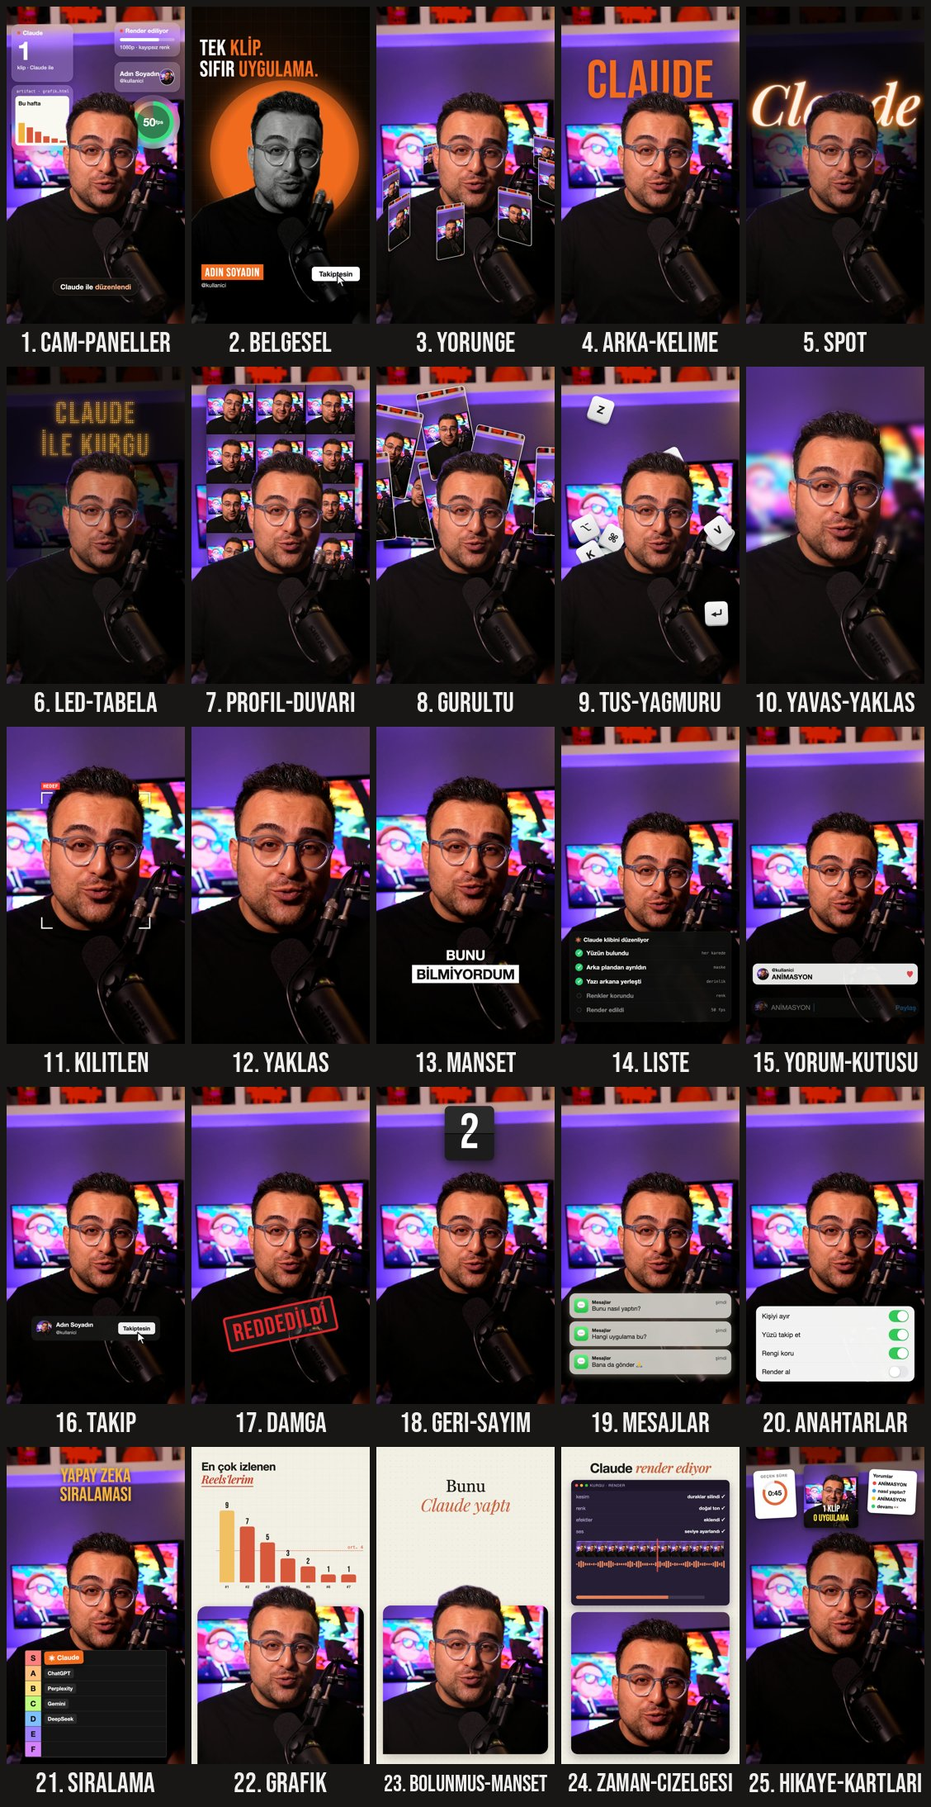
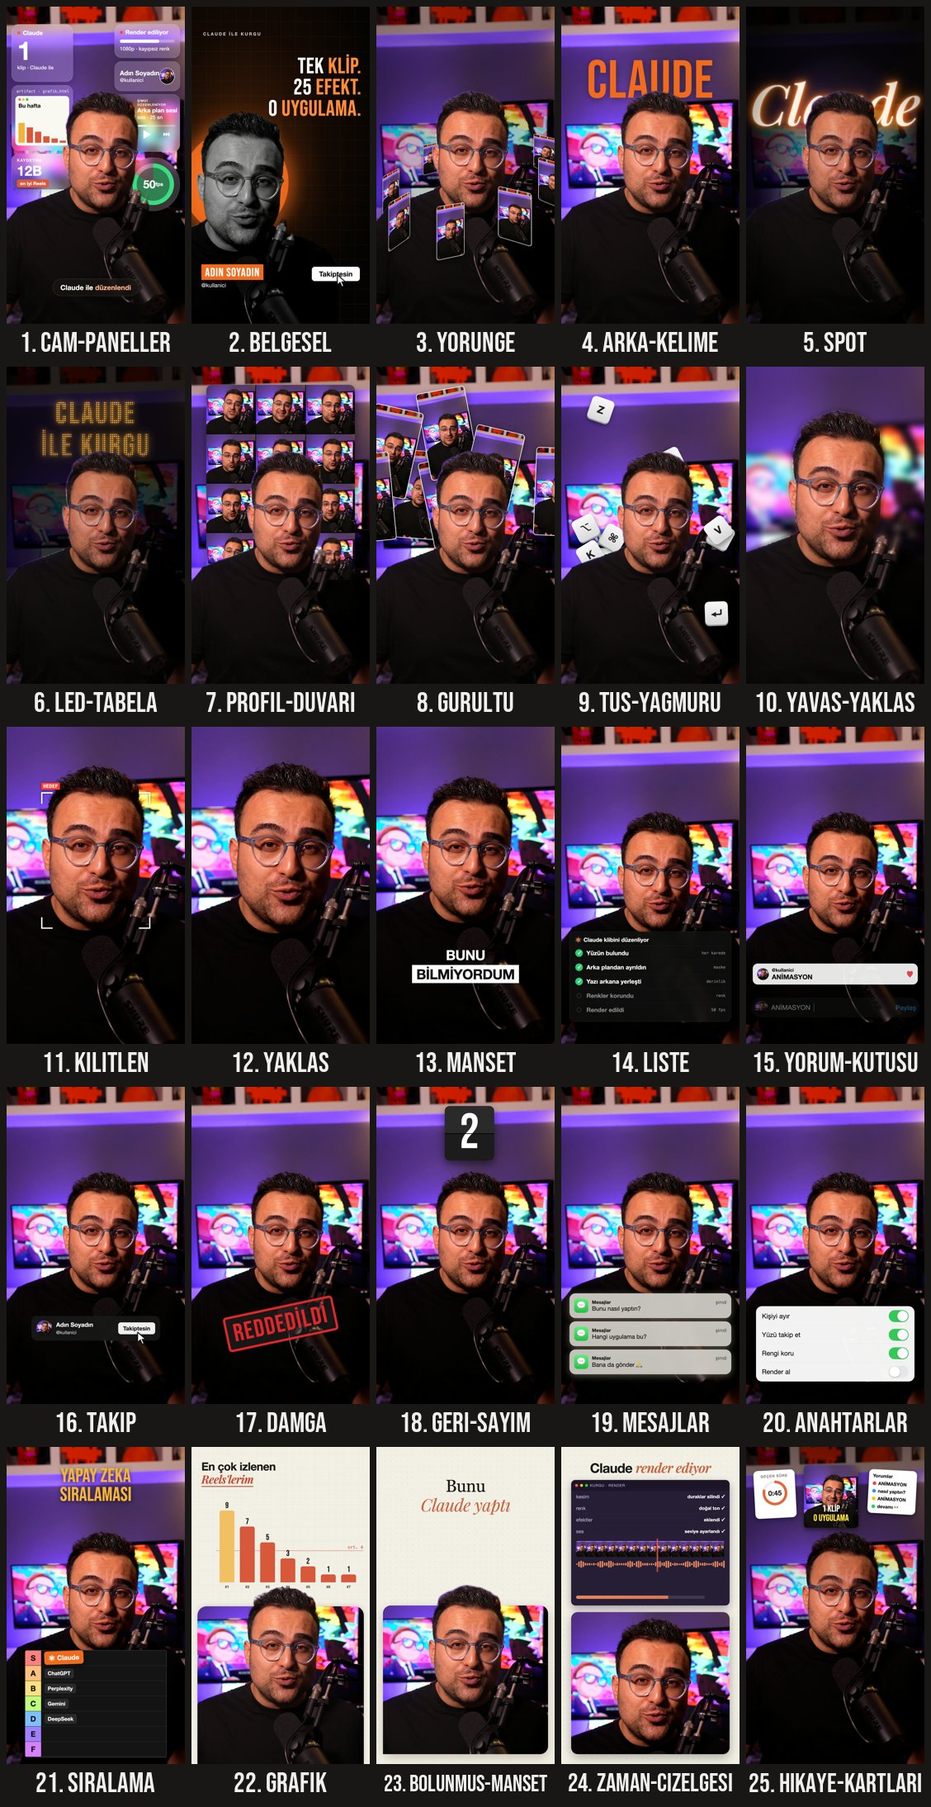
Videodaki efektler: cam-paneller, belgesel, yörünge, spot, grafik; kaliteli maske varsayılan

diff --git a/scripts/efekt.py b/scripts/efekt.py
@@ -6,7 +6,7 @@ Plan:        python efekt.py --plan plan.json video.mp4 cikti.mp4
 Kontrol:     python efekt.py --plan plan.json video.mp4 kontrol.jpg --kare 4.5,9.2
 Liste:       python efekt.py --liste
 
-Yüz YuNet ile takip edilir; kişi arka plandan ayrılır (hızlı: U2Net insan, --kaliteli: BiRefNet).
+Yüz YuNet ile takip edilir; kişi arka plandan ayrılır (varsayılan: BiRefNet, saç teli net; --hizli: U2Net).
 Animasyonlar HyperFrames + GSAP ile çizilir; çıktı kaynağın rengini birebir korur (bt709) ve
 orijinal sesi aynen taşır.
 """
@@ -128,7 +128,12 @@ def fx_cam(c, e, P):
 .gs{font-size:30px;font-weight:600;display:flex;align-items:center;gap:12px}.gs2{font-size:26px;font-weight:500;opacity:.85;line-height:1.3}
 .gdot{width:16px;height:16px;border-radius:50%;background:#e8644a;display:inline-block}.gbig{font-size:130px;font-weight:800;line-height:1;margin:4px 0 6px}
 .gmono{font:20px Menlo,monospace;opacity:.8;margin:0 0 12px 6px;white-space:nowrap}.gwin{background:#fbf8f3;border-radius:18px;padding:12px 16px;height:250px;position:relative;color:#1d1d1b}
-.gwt{font-size:28px;font-weight:800;margin-top:8px}.gch{position:absolute;left:16px;right:16px;bottom:14px;height:100px;display:flex;align-items:flex-end;gap:10px}.gch i{flex:1}
+.gwt{font-size:28px;font-weight:800;margin-top:8px}.gwd{display:flex;gap:7px}.gwd b{width:12px;height:12px;border-radius:50%}.gwv{font:400 54px Bebas;color:#C9452E;line-height:1}
+.glab{font-size:20px;font-weight:700;letter-spacing:2px;color:#fff;opacity:.85}.gmid{font-size:70px;font-weight:800;line-height:1;margin:4px 0 10px}
+.gred{display:inline-block;background:#E0563B;border-radius:12px;padding:6px 16px;font-size:24px;font-weight:600}
+.gico{width:76px;height:76px;border-radius:18px;background:#E0563B;display:flex;align-items:center;justify-content:center;flex:none}
+.gpb{height:8px;border-radius:4px;background:rgba(255,255,255,.3);margin:22px 0 10px;overflow:hidden}.gpb div{height:100%;width:60%;background:#fff}
+.gctl{display:flex;justify-content:center;align-items:center;gap:56px;font-size:36px}.gch{position:absolute;left:16px;right:16px;bottom:14px;height:100px;display:flex;align-items:flex-end;gap:10px}.gch i{flex:1}
 .gbar{height:16px;border-radius:8px;background:rgba(255,255,255,.3);margin:18px 0 14px;overflow:hidden}.gbf{height:100%;width:71%;background:#fff;border-radius:8px}
 .gname{font-size:32px;font-weight:800;white-space:nowrap}.gav{width:84px;height:84px;border-radius:50%;border:3px solid rgba(255,255,255,.8);object-fit:cover}
 .gring{width:210px;height:210px;border-radius:50%;background:conic-gradient(#3ddc84 300deg,rgba(255,255,255,.3) 0);display:flex;align-items:center;justify-content:center}
@@ -136,46 +141,55 @@ def fx_cam(c, e, P):
 .gpill{position:absolute;left:50%;margin-left:-260px;top:1660px;width:520px;height:104px;border-radius:52px;display:flex;align-items:center;justify-content:center;font-size:42px;font-weight:600;color:#fff;background:rgba(30,26,22,.45);backdrop-filter:blur(20px);-webkit-backdrop-filter:blur(20px);border:1.5px solid rgba(255,255,255,.35)}""")
     u = ust / 1.2
     h = f'''<div id="{P}g0" class="gls" style="left:25px;top:{u:.0f}px;width:310px;height:290px;padding:24px 28px"><div class="gs"><b class="gdot"></b>Claude</div><div class="gbig">{esc(buyuk)}</div><div class="gs2">{esc(etiket)}</div></div>
-<div id="{P}g1" class="gls" style="left:25px;top:{u + 311:.0f}px;width:310px;height:330px;padding:18px"><div class="gmono">artifact · grafik.html</div><div class="gwin"><div class="gwt">{esc(e.get("grafik", "Bu hafta"))}</div><div class="gch">{bars}</div></div></div>
-<div id="{P}g2" class="gls" style="left:545px;top:{u:.0f}px;width:330px;height:170px;padding:22px 26px"><div class="gs"><b class="gdot" style="background:#ff4b3e"></b>Render ediliyor</div><div class="gbar"><div id="{P}gb" class="gbf"></div></div><div class="gs2">1080p · kayıpsız renk</div></div>
-<div id="{P}g3" class="gls" style="left:545px;top:{u + 191:.0f}px;width:330px;height:150px;padding:22px 26px;display:flex;align-items:center"><div style="flex:1"><div class="gname">{esc(ad)}</div><div class="gs2">{esc(kul)}</div></div><img src="{c.kart(0)}" class="gav"></div>
-<div id="{P}g4" class="gls" style="left:605px;top:{u + 362:.0f}px;width:270px;height:270px;border-radius:50%;display:flex;align-items:center;justify-content:center"><div class="gring"><div>{esc(e.get("halka", "50"))}<br><span>{esc(e.get("halka_etiket", "fps"))}</span></div></div></div>'''
+<div id="{P}g1" class="gls" style="left:25px;top:{u + 311:.0f}px;width:310px;height:330px;padding:18px"><div class="gmono">artifact · grafik.html</div><div class="gwin"><div class="gwd"><b style="background:#ff5f57"></b><b style="background:#febc2e"></b><b style="background:#28c840"></b></div><div class="gwt">{esc(e.get("grafik", "Bu hafta"))}</div><div class="gwv">{esc(e.get("grafik_deger", ""))}</div><div class="gch">{bars}</div></div></div>
+<div id="{P}g2" class="gls" style="left:25px;top:{u + 661:.0f}px;width:310px;height:180px;padding:20px 26px"><div class="glab">{esc(e.get("kutu_etiket", "KAYDETME")).upper()}</div><div class="gmid">{esc(e.get("kutu", "12B"))}</div><div class="gred">{esc(e.get("kutu_alt", "en iyi Reels"))}</div></div>
+<div id="{P}g3" class="gls" style="left:545px;top:{u:.0f}px;width:330px;height:170px;padding:22px 26px"><div class="gs"><b class="gdot" style="background:#ff4b3e"></b>Render ediliyor</div><div class="gbar"><div id="{P}gb" class="gbf"></div></div><div class="gs2">1080p · kayıpsız renk</div></div>
+<div id="{P}g4" class="gls" style="left:545px;top:{u + 191:.0f}px;width:330px;height:150px;padding:22px 26px;display:flex;align-items:center"><div style="flex:1"><div class="gname">{esc(ad)}</div><div class="gs2">{esc(kul)}</div></div><img src="{c.kart(0)}" class="gav"></div>
+<div id="{P}g5" class="gls" style="left:545px;top:{u + 361:.0f}px;width:330px;height:290px;padding:22px"><div style="display:flex;gap:16px;align-items:center"><div class="gico">{spark(54, "#fff")}</div><div><div class="glab" style="font-size:16px;letter-spacing:1.5px">ŞİMDİ DÜZENLENİYOR</div><div class="gname" style="font-size:30px">{esc(e.get("calan", "Arka plan sesi"))}</div><div class="gs2">{esc(e.get("calan_alt", "ses · 25 sn"))}</div></div></div><div class="gpb"><div id="{P}gp"></div></div><div class="gctl"><span>⏮</span><span style="font-size:52px">▶</span><span>⏭</span></div></div>
+<div id="{P}g6" class="gls" style="left:605px;top:{u + 672:.0f}px;width:270px;height:270px;border-radius:50%;display:flex;align-items:center;justify-content:center"><div class="gring"><div>{esc(e.get("halka", "50"))}<br><span>{esc(e.get("halka_etiket", "fps"))}</span></div></div></div>'''
     h += c.kesik(a, b)
-    h += f'<div id="{P}g5" class="gpill">Claude ile <b style="color:#FFB08A;margin-left:12px">düzenlendi</b></div>'
-    for j in range(6):
+    h += f'<div id="{P}g7" class="gpill">Claude ile <b style="color:#FFB08A;margin-left:12px">düzenlendi</b></div>'
+    for j in range(8):
         giris(c, f"#{P}g{j}", a, j, 0.07); c.yuzen(f"#{P}g{j}", a + 0.5 + j * 0.05, 8 + (j % 3) * 4, max(0.4, (b - a - 0.6) / 2))
     c.T(f"#{P}gb", "{width:'15%'}", "{width:'92%'}", a + 0.1, b - a - 0.2, "power1.inOut")
+    c.T(f"#{P}gp", "{width:'10%'}", "{width:'70%'}", a + 0.1, b - a - 0.2, "none")
     return h
 
 
-@efekt("belgesel", "Siyah-beyaz sen, başının arkasında turuncu daire, satır satır başlık, isim bandı, Takip et → Takiptesin", kesik=True, takma=("red-collage", "documentary"))
+@efekt("belgesel", "Siyah-beyaz sen köşede, başının arkasında turuncu daire, sağ üstte satır satır başlık, isim bandı, Takip et → Takiptesin", kesik=True, takma=("red-collage", "documentary"))
 def fx_belgesel(c, e, P):
     a, b = e["bas"], e["bit"]; fx, fy, fw = c.yuz_ort(a, b)
-    satir = parca(e.get("metin", "TEK KLİP.|SIFIR UYGULAMA."))
-    renk = e.get("renk", TURUNCU); r = 1.15 * fw
-    sag = fx < W / 2
-    g = "filter:grayscale(1) contrast(1.12) brightness(.9);"
+    satir = parca(e.get("metin", "TEK KLİP.|25 EFEKT.|0 UYGULAMA."))
+    renk = e.get("renk", TURUNCU); sk = 1.15
+    # kişiyi sol alta kaydır: yüz (290, 1118) civarına gelir
+    tx = 290 - (540 + (fx - 540) * sk); ty = 1118 - (960 + (fy - 960) * sk)
+    nx, ny, nw = 290, 1118, fw * sk; r = 0.71 * nw
+    g = f"filter:grayscale(1) contrast(1.12) brightness(.9);transform:translate({tx:.0f}px,{ty:.0f}px) scale({sk});transform-origin:540px 960px;"
     ts = "".join(f'<div id="{P}l{i}">{esc(" ".join(s.split()[:-1]))} <em>{esc(s.split()[-1])}</em></div>' if len(s.split()) > 1 else f'<div id="{P}l{i}"><em>{esc(s)}</em></div>' for i, s in enumerate(satir))
-    c.css("belgesel", f""".bbg{{position:absolute;inset:0;background:radial-gradient(ellipse 80% 60% at 40% 40%,#3a1a08 0%,#140904 55%,#050302 100%)}}
-.bbg:after{{content:"";position:absolute;inset:0;background-image:linear-gradient(rgba(255,140,60,.07) 2px,transparent 2px),linear-gradient(90deg,rgba(255,140,60,.07) 2px,transparent 2px);background-size:90px 90px}}
-.btl{{position:absolute;color:#fff;font:400 135px Bebas;line-height:.95;letter-spacing:2px}}.btl em{{font-style:normal}}
-.bln{{display:inline-block;color:#fff;font:400 72px Bebas;padding:8px 22px 0;letter-spacing:3px}}.blh{{color:#fff;font-size:34px;margin-top:12px;opacity:.85}}
-.bfol{{position:absolute;color:#fff;font-size:42px;font-weight:700;border-radius:18px;padding:18px 44px}}""")
-    yer = "right:50px;text-align:right" if sag else "left:50px;text-align:left"
+    c.css("belgesel", """.bbg{position:absolute;inset:0;background:radial-gradient(ellipse 80% 60% at 30% 40%,#3a1a08 0%,#140904 55%,#050302 100%)}
+.bbg:after{content:"";position:absolute;inset:0;background-image:linear-gradient(rgba(255,140,60,.07) 2px,transparent 2px),linear-gradient(90deg,rgba(255,140,60,.07) 2px,transparent 2px);background-size:90px 90px}
+.btop{position:absolute;left:70px;top:150px;color:rgba(255,255,255,.75);font-size:26px;letter-spacing:6px;font-weight:600}
+.btl{position:absolute;right:50px;top:300px;text-align:right;color:#fff;font:400 135px Bebas;line-height:.95;letter-spacing:2px}.btl em{font-style:normal}
+.bln{display:inline-block;color:#fff;font:400 72px Bebas;padding:8px 22px 0;letter-spacing:3px}.blh{color:#fff;font-size:34px;margin-top:12px;opacity:.85}
+.bfol{position:absolute;color:#fff;font-size:42px;font-weight:700;border-radius:18px;padding:18px 44px}""")
     h = f'''<div id="{P}bg" class="bbg"></div>
-<div id="{P}dk" style="position:absolute;left:{fx - r:.0f}px;top:{fy - r - 0.1 * fw:.0f}px;width:{2 * r:.0f}px;height:{2 * r:.0f}px;border-radius:50%;background:radial-gradient(circle,{renk} 0%,{renk} 60%,#0000 100%);box-shadow:0 0 90px 30px {renk}88"></div>
-<div class="btl" style="{yer};top:{max(120, fy - 1.9 * fw):.0f}px">{ts.replace("<em>", f'<em style="color:{renk}">')}</div>'''
+<div id="{P}dk" style="position:absolute;left:{nx - 0.05 * nw - r:.0f}px;top:{ny - 0.09 * nw - r:.0f}px;width:{2 * r:.0f}px;height:{2 * r:.0f}px;border-radius:50%;background:radial-gradient(circle,#FF8A3D 0%,{renk} 60%,#d4560f 100%);box-shadow:0 0 90px 30px {renk}8c,0 0 220px 80px {renk}40"></div>
+<div id="{P}ut" class="btop">{esc(e.get("ust", "CLAUDE İLE KURGU")).upper()}</div>
+<div class="btl">{ts.replace("<em>", '<em style="color:#FF8A3D">')}</div>'''
     h += c.kesik(a, b, g)
-    h += f'''<div style="position:absolute;left:60px;top:1560px"><div class="bln" style="background:{renk}">{esc(e.get("ad", "ADIN SOYADIN").upper())}</div><div class="blh">{esc(e.get("kullanici", "@kullanici"))}</div></div>
+    h += f'''<div id="{P}bt" style="position:absolute;left:60px;top:1560px"><div class="bln" style="background:{renk}">{esc(e.get("ad", "ADIN SOYADIN").upper())}</div><div class="blh">{esc(e.get("kullanici", "@kullanici"))}</div></div>
 <div id="{P}fo" class="bfol" style="right:60px;top:1575px;background:{renk}"><span id="{P}f1">Takip et</span><span id="{P}f2" style="display:none">Takiptesin</span></div>
 <div id="{P}cu" style="position:absolute;left:880px;top:1620px;filter:drop-shadow(0 4px 8px rgba(0,0,0,.5))">{IMLEC}</div>'''
     c.T(f"#{P}bg", "{opacity:0}", "{opacity:1}", a, 0.2, "none")
-    c.T(f"#{P}dk", "{scale:0.5,opacity:0}", "{scale:1,opacity:1}", a + 0.05, 0.5)
-    for i in range(len(satir)): c.T(f"#{P}l{i}", "{opacity:0,x:60}", "{opacity:1,x:0}", a + 0.25 + i * 0.17, 0.2)
-    t = a + min(b - a - 0.4, 1.0)
+    c.T(f"#{P}dk", "{scale:0.6,opacity:0}", "{scale:1,opacity:1}", a + 0.05, 0.6)
+    c.yuzen(f"#{P}dk", a + 0.7, 12, max(0.4, (b - a - 0.8) / 2))
+    c.T(f"#{P}ut", "{opacity:0,y:-20}", "{opacity:1,y:0}", a + 0.6, 0.3)
+    c.T(f"#{P}bt", "{x:-500}", "{x:0}", a + 0.6, 0.4)
+    for i in range(len(satir)): c.T(f"#{P}l{i}", "{opacity:0,x:60}", "{opacity:1,x:0}", a + 0.8 + i * 0.17, 0.18)
+    t = a + min(b - a - 0.3, 0.8 + len(satir) * 0.17 + 0.35)
     c.T(f"#{P}cu", "{x:260,y:300,opacity:0}", "{x:0,y:0,opacity:1}", t - 0.35, 0.3)
     c.S(f"#{P}f1", '{display:"none"}', t); c.S(f"#{P}f2", '{display:"inline"}', t)
-    c.S(f"#{P}fo", '{backgroundColor:"#fff",color:"#111"}', t)
+    c.S(f"#{P}fo", '{backgroundColor:"#fff",color:"#111",scale:0.94}', t); c.T(f"#{P}fo", "{scale:0.94}", "{scale:1}", t + 0.04, 0.15)
     return h
 
 
@@ -206,7 +220,8 @@ def fx_yorunge(c, e, P):
                 else: c.J.append(f'tl.to("#{P}o{i}{k}", {{{v},duration:{adim},ease:"none"}}, {c.fr(t - adim):.4f});')
             if f != st:
                 c.S(f"#{P}o{i}f", f"{{opacity:{1 if f else 0}}}", t); c.S(f"#{P}o{i}b", f"{{opacity:{0 if f else 1}}}", t); st = f
-    return arka + c.kesik(a, b) + on
+    c.T(f"#{P}dk", "{opacity:0}", "{opacity:1}", a, 0.25, "none")
+    return f'<div id="{P}dk" style="position:absolute;inset:0;background:rgba(0,0,0,.25)"></div>' + arka + c.kesik(a, b) + on
 
 
 @efekt("arka-kelime", "Dev bir kelime arkana düşer", kesik=True, takma=("backdrop-word", "backdrop", "kelime"))
@@ -230,6 +245,8 @@ def fx_spot(c, e, P):
     h = f'''<div id="{P}d" style="position:absolute;inset:0;background:radial-gradient(ellipse 60% 45% at {fx / W * 100:.0f}% {fy / H * 100:.0f}%,rgba(0,0,0,.25),rgba(0,0,0,.88) 80%)"></div>
 <div id="{P}n" style="position:absolute;left:-40px;right:-40px;top:{fy - 1.05 * fw - boy * 0.5:.0f}px;text-align:center;font:italic 500 {boy}px Playfair;color:#fff1e3;text-shadow:0 0 8px #fff,0 0 22px {renk},0 0 48px {renk},0 0 90px {renk}">{esc(s)}</div>'''
     h += c.kesik(a, b, "filter:brightness(.9);")
+    h += f'<div id="{P}v" style="position:absolute;inset:0;background:radial-gradient(ellipse 70% 55% at {fx / W * 100:.0f}% {fy / H * 100:.0f}%,transparent 55%,rgba(0,0,0,.6))"></div>'
+    c.T(f"#{P}v", "{opacity:0}", "{opacity:1}", a, 0.25, "none")
     c.T(f"#{P}d", "{opacity:0}", "{opacity:1}", a, 0.25, "none")
     c.S(f"#{P}n", "{opacity:0}", a)
     for t, o in ((0.25, 1), (0.33, 0.2), (0.41, 1), (0.49, 0.4), (0.55, 1)): c.S(f"#{P}n", f"{{opacity:{o}}}", a + t)
@@ -507,12 +524,13 @@ def fx_grafik(c, e, P):
     ort = sum(deg) / n
     vst, kst = pencere_yuz(c, e, 36, 965, W - 72, H - 965)
     h = f'''<div style="position:absolute;inset:0;background:{KREM};background-image:linear-gradient(rgba(150,140,120,.13) 1.5px,transparent 1.5px),linear-gradient(90deg,rgba(150,140,120,.13) 1.5px,transparent 1.5px);background-size:44px 44px">
-<div style="position:absolute;left:60px;top:80px;font-weight:800;font-size:68px;color:{MUREKKEP};letter-spacing:-1.5px;line-height:1.12">{esc(bas[0])}<br><span style="border-bottom:5px solid #C9452E"><em style="font-family:Playfair;font-weight:600;color:#C9452E">{esc(bas[1])}</em></span></div>
+<div id="{P}tl" style="position:absolute;left:60px;top:80px;font-weight:800;font-size:68px;color:{MUREKKEP};letter-spacing:-1.5px;line-height:1.12">{esc(bas[0])}<br><span style="border-bottom:5px solid #C9452E"><em style="font-family:Playfair;font-weight:600;color:#C9452E">{esc(bas[1])}</em></span></div>
 <div id="{P}av" style="position:absolute;left:150px;right:40px;top:{Y0 - ort / mx * HH:.0f}px;border-top:3px dashed #D9583D;transform-origin:0 50%"><span style="position:absolute;right:0;top:-38px;font:26px Menlo,monospace;color:#D9583D">ort. {esc(e.get("ortalama", f"{ort:.3g}".replace(".", ",")))}</span></div>{bars}
 <div id="{P}w" style="position:absolute;left:36px;right:36px;top:965px;bottom:0;border-radius:56px 56px 0 0;overflow:hidden;box-shadow:0 -6px 30px rgba(0,0,0,.12)">{c.video(a, b, vst)}</div>
 <div id="{P}kk" style="position:absolute;inset:0">{c.kesik(a, b, kst)}</div></div>'''
     for j in range(n): c.T(f"#{P}b{j}", "{scaleY:0}", "{scaleY:1}", a + 0.25 + j * 0.08, 0.45)
     c.T(f"#{P}av", "{scaleX:0}", "{scaleX:1}", a + 0.7, 0.4, "power2.out")
+    c.T(f"#{P}tl", "{y:-30,opacity:0}", "{y:0,opacity:1}", a + 0.05, 0.35)
     c.T(f"#{P}w", "{y:300}", "{y:0}", a, 0.45); c.T(f"#{P}kk", "{y:300}", "{y:0}", a, 0.45)
     return h
 
@@ -595,6 +613,10 @@ def yuz_izi(klip, dur, fps, cache):
     json.dump(out, open(cache + ".tmp", "w")); os.replace(cache + ".tmp", cache); return out
 
 
+def model_var(ad):
+    return any(os.path.exists(os.path.join(d, ad)) for d in (os.path.join(KOK, "models"), os.path.expanduser("~/.u2net")))
+
+
 def maske_motoru(kaliteli):
     import onnxruntime as ort
     adlar = ["birefnet-portrait.onnx"] if kaliteli else ["u2net_human_seg.onnx"]
@@ -612,7 +634,8 @@ def maske_motoru(kaliteli):
     sys.exit("Maske modeli yok. Önce: bash scripts/kurulum.sh" + (" (kaliteli mod için BiRefNet gerekir)" if kaliteli else ""))
 
 
-def kesikleri_yap(c, is_kl, kaliteli, fps):
+def kesikleri_yap(c, is_kl, kaliteli, fps, kareler=None):
+    """kareler verilirse (kontrol modu) sadece o anlara maske çıkarılır, diğer kareler en yakınınkini kullanır."""
     mas = None; mk = os.path.join(is_kl, "work", "mk" + ("_k" if kaliteli else "_h")); os.makedirs(mk, exist_ok=True)
     for i, (a, b) in enumerate(c.kesikler):
         n = int(math.ceil((b - a + 0.05) * fps)) + 1; ilk = int(round(a * fps))
@@ -620,8 +643,16 @@ def kesikleri_yap(c, is_kl, kaliteli, fps):
         sh("ffmpeg", "-v", "error", "-y", "-ss", f"{a:.4f}", "-i", os.path.join(is_kl, "assets", "klip.mov"), "-frames:v", str(n), "-start_number", "0", os.path.join(rgb, "%05d.png"))
         kk = os.path.join(is_kl, "work", f"kesik{i}"); shutil.rmtree(kk, ignore_errors=True); os.makedirs(kk)
         dosyalar = sorted(glob.glob(os.path.join(rgb, "*.png")))
+        hedef = None
+        if kareler:
+            ic = [int(round(t * fps)) - ilk for t in kareler if a - 0.1 <= t <= b + 0.1]
+            hedef = [min(max(x, 0), len(dosyalar) - 1) for x in ic] or [len(dosyalar) // 2]
         for j, f in enumerate(dosyalar):
-            m = os.path.join(mk, f"{ilk + j:06d}.png")
+            jj = min(hedef, key=lambda x: abs(x - j)) if hedef else j
+            m = os.path.join(mk, f"{ilk + jj:06d}.png")
+            if jj != j:
+                if not os.path.exists(m): mas = mas or maske_motoru(kaliteli); mas(Image.open(dosyalar[jj]).convert("RGB")).save(m)
+                im = Image.open(f).convert("RGB"); im.putalpha(Image.open(m).convert("L")); im.save(os.path.join(kk, f"{j:05d}.png")); continue
             im = Image.open(f).convert("RGB")
             if not os.path.exists(m):
                 mas = mas or maske_motoru(kaliteli); mas(im).save(m)
@@ -646,7 +677,7 @@ def main():
     p = argparse.ArgumentParser(description="25 kurgu efekti")
     p.add_argument("args", nargs="*"); p.add_argument("--plan"); p.add_argument("--bas", type=float); p.add_argument("--bit", type=float)
     p.add_argument("--opt", action="append", default=[]); p.add_argument("--kare", help="kontrol kareleri: 4.5,9.2")
-    p.add_argument("--kaliteli", action="store_true", help="BiRefNet maske (yavaş, saç teli net)"); p.add_argument("--kartlar", help="Reels kapakları klasörü")
+    p.add_argument("--hizli", action="store_true", help="U2Net maske (hızlı ama saç kenarı kaba)"); p.add_argument("--kaliteli", action="store_true", help=argparse.SUPPRESS); p.add_argument("--kartlar", help="Reels kapakları klasörü")
     p.add_argument("--liste", action="store_true")
     a = p.parse_args()
     if a.liste:
@@ -710,7 +741,9 @@ tl.set({{}}, {{}}, {dur - 0.01:.3f});
 window.__timelines["main"] = tl;
 </script></body></html>'''
     if c.kesikler:
-        print(f"kişi ayrılıyor ({'kaliteli' if a.kaliteli else 'hızlı'})…", flush=True); kesikleri_yap(c, is_kl, a.kaliteli, fps)
+        kal = not a.hizli and model_var("birefnet-portrait.onnx")
+        if not a.hizli and not kal: print("UYARI: BiRefNet yok, hızlı maskeye geçildi (saç kenarı kaba olabilir). Kurmak için: bash scripts/kurulum.sh", flush=True)
+        print(f"kişi ayrılıyor ({'kaliteli' if kal else 'hızlı'})…", flush=True); kesikleri_yap(c, is_kl, kal, fps, [float(x) for x in a.kare.split(",")] if a.kare else None)
     open(os.path.join(is_kl, "index.html"), "w", encoding="utf8").write(html)
     if a.kare:
         r = subprocess.run(["npx", "--yes", "hyperframes@0.6.16", "snapshot", "--at", a.kare, "."], cwd=is_kl, capture_output=True, text=True)

diff --git a/SKILL.md b/SKILL.md
@@ -14,7 +14,7 @@ Aşağıdaki yollar bu skill'in klasörüne göredir. Komutlarda mutlak yolu kul
 - `EKSIK_FFMPEG` çıkarsa: `brew install ffmpeg`.
 - `EKSIK_NODE` çıkarsa: `brew install node`.
 - `EKSIK_PYTHON` çıkarsa: `brew install python@3.12`, sonra kurulumu tekrar çalıştır.
-- Kaliteli maske istenirse: `bash scripts/kurulum.sh --kaliteli`. BiRefNet modelini indirir (~970 MB).
+- Kurulum, saç tellerini net ayıran BiRefNet modelini indirir (~970 MB). İnternet ya da yer sorunu varsa `--hizli` ile sadece küçük U2Net modeli iner.
 
 ## 2. Videoyu ve efekti al
 - **Video:** Kullanıcı sohbete sürükler ya da yolunu verir. Dikey telefon videosu en iyisidir.
@@ -43,7 +43,7 @@ Aşağıdaki yollar bu skill'in klasörüne göredir. Komutlarda mutlak yolu kul
    .venv/bin/python scripts/efekt.py --plan <plan.json> <video> <video-adı>_efekt.mp4
    ```
    - Çıktı kaynağın fps'ini, rengini (bt709) ve sesini aynen korur.
-   - Kişi ayırma için saç telleri tam net olsun istenirse `--kaliteli` ekle (yavaş).
+   - Kişi ayırma varsayılan olarak kaliteli moddadır (BiRefNet): saç kenarı net ama yavaş, kare başına birkaç saniye sürer. Kullanıcı hız isterse `--hizli` ekle; saç kenarı kabalaşır, bunu ona söyle.
 4. Dosyanın nerede olduğunu söyle. Tek satırla paylaşmadan önce izlemesini hatırlat: Claude taslak çıkarır, onay ondadır.
 
 Tek efekt için plana gerek yok:

diff --git a/README.md b/README.md
@@ -78,7 +78,7 @@ Bütün efektler yüzünü takip eder. Yüzünü kapatacak her şey başının a
 - Zamanlamayı düz cümleyle söyle ("'izle' dediğimde"). Claude tam saniyeyi bulur.
 - `yorunge`, `gurultu`, `profil-duvari` ve `zaman-cizelgesi` için kendi Reels'lerini kullanmak mı istiyorsun? Claude'a ekran görüntülerinin olduğu klasörü ver.
 - Grafiklerde, sayaçlarda ve manşetlerde gerçek sayılarını kullan. Claude'a ne olduklarını söyle.
-- Kişiyi ayırmanın varsayılanı hızlı moddur. Saç telleri tam net olsun istersen "kaliteli maske" de. Bu mod daha yavaştır.
+- Kişi ayırma varsayılan olarak kaliteli moddadır: saç telleri net çıkar ama render biraz sürer. Acelen varsa "hızlı maske" de; saç kenarları kabalaşır.
 
 ## Açık konuşalım
 - Bunlar **başlangıç sürümleri**. Benim Reels'imdeki kurguyla birebir aynı değiller; o kurguda ses tasarımı ve elle ayarlanmış zamanlama da var.
